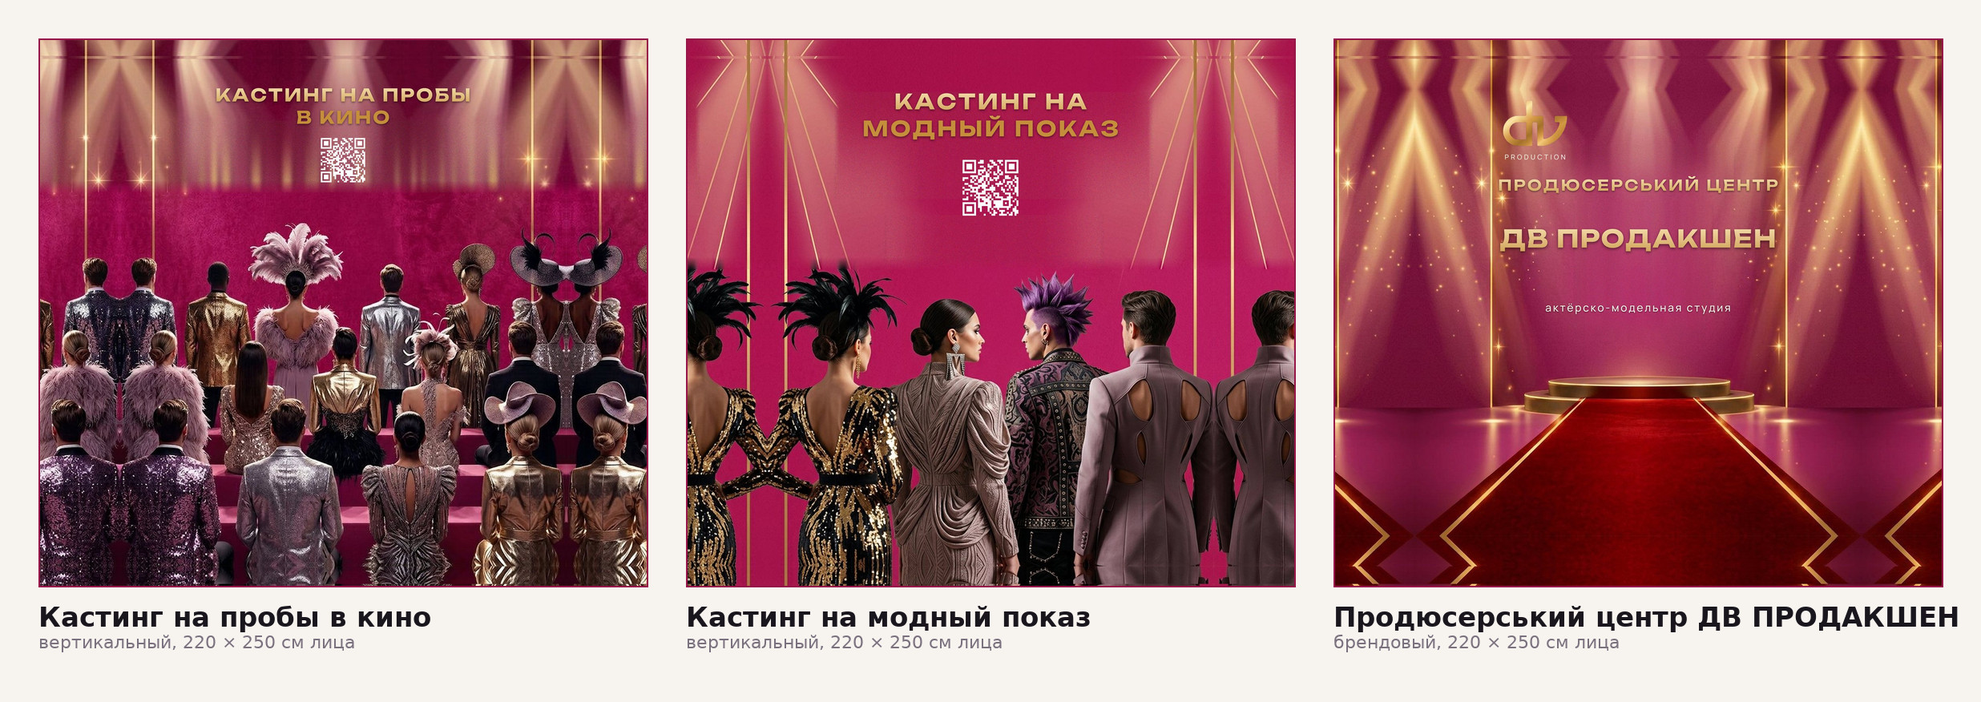
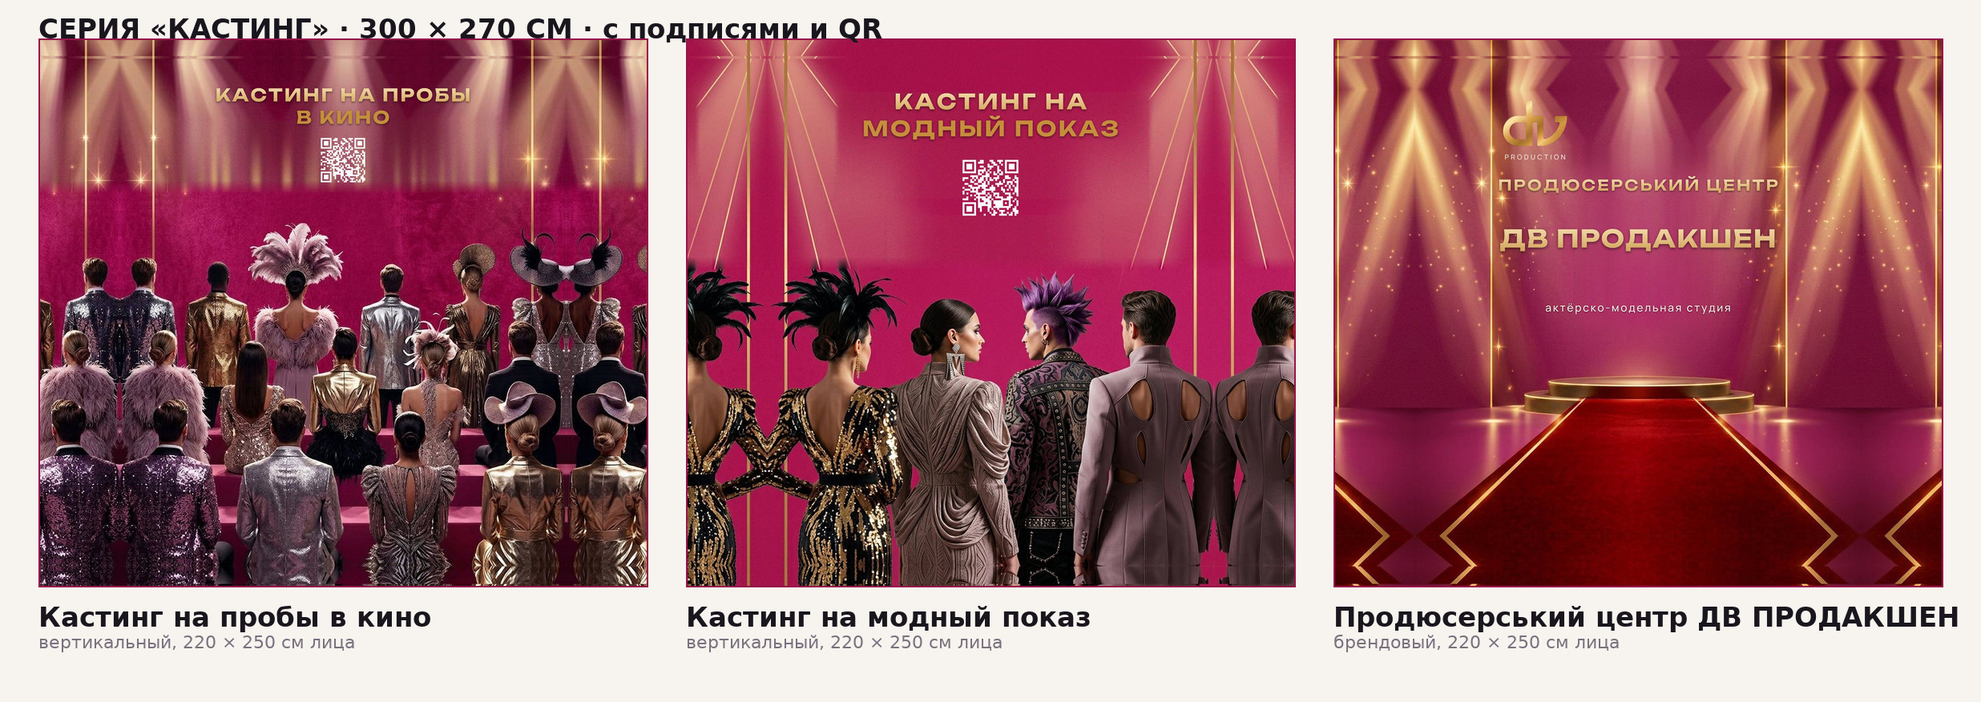
Серия «Кастинг»: чистые макеты 300 × 270 без подписей, логотипа и QR
Та же композиция и та же геометрия конструкции (файл 300 × 270 см, лицо
220 × 250 см, загибы 10 см, уши 40 см), но без единой надписи, без
монограммы и без QR-кода — чистые фоны под свой текст или под зашивку.

• build_300x270.py --bare — не накладываются слои заголовков, монограммы
  и QR; запечённые в исходниках надписи вычищаются как и раньше, поэтому
  следов старых букв не остаётся;
• три мастера banner-{kino,pokaz,dv-production}-300x270-bare.jpg —
  35 433 × 31 890 px, 300 dpi, sRGB, 4:4:4;
• qa_300x270.py проверяет и чистые мастера: QR в них не декодируется,
  это ожидаемое поведение;
• превью и контактный лист чистой серии, web-версии (1600 px + видимое
  лицо 1400 px) и четыре соцсети с суффиксом -bare;
• README и спецификация серии обновлены.

Мастера (включая чистые версии) в git не коммитим — они воспроизводимы
одной командой.

Changed region(s): [[0.0, 0.0308, 0.4672, 0.0616]]

diff --git a/scripts/banners/make_preview_300x270.py b/scripts/banners/make_preview_300x270.py
@@ -39,6 +39,13 @@ ITEMS = [
     ("dv-production", "Продюсерський центр ДВ ПРОДАКШЕН", "брендовый, 220 × 250 см лица"),
 ]
 
+# Варианты серии: суффикс файлов и подпись в контактном листе.
+# "" — с подписями, логотипом и QR; "-bare" — чистые фоны без текста.
+VARIANTS = [
+    ("", "с подписями и QR"),
+    ("-bare", "чистые, без подписей и QR"),
+]
+
 
 def face_crop(src: Path, dst: Path, dst_width: int, webp: bool = False) -> tuple[int, int]:
     """Вырезает видимое лицо из веб-версии печатного файла и масштабирует."""
@@ -58,56 +65,60 @@ def face_crop(src: Path, dst: Path, dst_width: int, webp: bool = False) -> tuple
 def main() -> int:
     PREVIEW.mkdir(parents=True, exist_ok=True)
     WEB.mkdir(parents=True, exist_ok=True)
-    thumbs = []
-    for key, title, note in ITEMS:
-        src = WEB / f"{key}-300x270.jpg"
-        if not src.exists():
-            print(f"Нет веб-версии: {src}")
+    for suffix, variant_note in VARIANTS:
+        thumbs = []
+        for key, title, note in ITEMS:
+            src = WEB / f"{key}-300x270{suffix}.jpg"
+            if not src.exists():
+                print(f"Нет веб-версии: {src}")
+                continue
+
+            # копия полного печатного файла в репозиторий (веб-версия остаётся на месте)
+            out = PREVIEW / f"casting-300x270{suffix}-{key}.jpg"
+            im = Image.open(src)
+            im.save(out, quality=90, subsampling=0)
+            print(f"Превью: {out.relative_to(ROOT)} ({im.size[0]}×{im.size[1]}, "
+                  f"{out.stat().st_size // 1024} КБ)")
+
+            # видимое лицо — для сайта и для согласования композиции
+            fw, fh = face_crop(src, WEB / f"{key}-300x270{suffix}-face", 1400, webp=True)
+            face_out = PREVIEW / f"casting-300x270{suffix}-{key}-face.jpg"
+            face_crop(src, face_out, 1200)
+            print(f"  лицо: {face_out.relative_to(ROOT)} ({fw}×{fh})")
+
+            t = im.copy()
+            t.thumbnail((760, 760), Image.LANCZOS)
+            thumbs.append((t, title, note))
+
+        if not thumbs:
             continue
 
-        # копия полного печатного файла в репозиторий (веб-версия остаётся на месте)
-        out = PREVIEW / f"casting-300x270-{key}.jpg"
-        im = Image.open(src)
-        im.save(out, quality=90, subsampling=0)
-        print(f"Превью: {out.relative_to(ROOT)} ({im.size[0]}×{im.size[1]}, "
+        # контактный лист
+        pad = 48
+        cap = 96
+        width = pad + sum(t.width + pad for t, _, _ in thumbs)
+        height = pad + max(t.height for t, _, _ in thumbs) + cap + pad
+        sheet = Image.new("RGB", (width, height), (247, 244, 240))
+        d = ImageDraw.Draw(sheet)
+        f_title = ImageFont.truetype(str(F_BOLD), 34)
+        f_note = ImageFont.truetype(str(F_REG), 22)
+
+        x = pad
+        top = pad
+        for t, title, note in thumbs:
+            sheet.paste(t, (x, top))
+            d.rectangle([x, top, x + t.width, top + t.height], outline=(150, 22, 74), width=2)
+            d.text((x, top + t.height + 18), title, font=f_title, fill=(26, 22, 30))
+            d.text((x, top + t.height + 56), note, font=f_note, fill=(122, 112, 126))
+            x += t.width + pad
+
+        d.text((pad, 16), f"СЕРИЯ «КАСТИНГ» · 300 × 270 СМ · {variant_note}",
+               font=f_title, fill=(26, 22, 30))
+
+        out = PREVIEW / f"casting-300x270{suffix}-contact-sheet.jpg"
+        sheet.save(out, quality=90, subsampling=0)
+        print(f"Контактный лист: {out.relative_to(ROOT)} ({sheet.size[0]}×{sheet.size[1]}, "
               f"{out.stat().st_size // 1024} КБ)")
-
-        # видимое лицо — для сайта и для согласования композиции
-        fw, fh = face_crop(src, WEB / f"{key}-300x270-face", 1400, webp=True)
-        face_out = PREVIEW / f"casting-300x270-{key}-face.jpg"
-        face_crop(src, face_out, 1200)
-        print(f"  лицо: {face_out.relative_to(ROOT)} ({fw}×{fh})")
-
-        t = im.copy()
-        t.thumbnail((760, 760), Image.LANCZOS)
-        thumbs.append((t, title, note))
-
-    if not thumbs:
-        return 1
-
-    # контактный лист
-    pad = 48
-    cap = 96
-    width = pad + sum(t.width + pad for t, _, _ in thumbs)
-    height = pad + max(t.height for t, _, _ in thumbs) + cap + pad
-    sheet = Image.new("RGB", (width, height), (247, 244, 240))
-    d = ImageDraw.Draw(sheet)
-    f_title = ImageFont.truetype(str(F_BOLD), 34)
-    f_note = ImageFont.truetype(str(F_REG), 22)
-
-    x = pad
-    top = pad
-    for t, title, note in thumbs:
-        sheet.paste(t, (x, top))
-        d.rectangle([x, top, x + t.width, top + t.height], outline=(150, 22, 74), width=2)
-        d.text((x, top + t.height + 18), title, font=f_title, fill=(26, 22, 30))
-        d.text((x, top + t.height + 56), note, font=f_note, fill=(122, 112, 126))
-        x += t.width + pad
-
-    out = PREVIEW / "casting-300x270-contact-sheet.jpg"
-    sheet.save(out, quality=90, subsampling=0)
-    print(f"Контактный лист: {out.relative_to(ROOT)} ({sheet.size[0]}×{sheet.size[1]}, "
-          f"{out.stat().st_size // 1024} КБ)")
     return 0
 
 

diff --git a/scripts/banners/build_300x270.py b/scripts/banners/build_300x270.py
@@ -31,6 +31,7 @@
 Запуск:
   python3 scripts/banners/build_300x270.py
   python3 scripts/banners/build_300x270.py --only kino
+  python3 scripts/banners/build_300x270.py --bare      # без подписей, логотипа и QR
 """
 from __future__ import annotations
 
@@ -411,15 +412,15 @@ def write_master(raw: Path, out: Path) -> None:
           f"{out.stat().st_size // 1024 // 1024} МБ, {dpi})")
 
 
-def build_derivatives(raw: Path, key: str) -> None:
+def build_derivatives(raw: Path, key: str, suffix: str = "") -> None:
     """Web- и social-версии — те же параметры, что у всей серии."""
     img = pyvips.Image.rawload(str(raw), W, H, 3, access="sequential")
     WEB_DIR.mkdir(parents=True, exist_ok=True)
     SOCIAL_DIR.mkdir(parents=True, exist_ok=True)
 
     web = img.resize(1600 / W, kernel="lanczos3")
-    web.write_to_file(str(WEB_DIR / f"{key}-300x270.jpg"), Q=84, strip=True)
-    web.write_to_file(str(WEB_DIR / f"{key}-300x270.webp"), Q=80, strip=True)
+    web.write_to_file(str(WEB_DIR / f"{key}-300x270{suffix}.jpg"), Q=84, strip=True)
+    web.write_to_file(str(WEB_DIR / f"{key}-300x270{suffix}.webp"), Q=80, strip=True)
 
     bg = [float(c.avg()) for c in img.crop(0, 0, 1, 1).bandsplit()]
     for name, tw, th in (("1080x1920", 1080, 1920), ("1080x1350", 1080, 1350),
@@ -429,31 +430,37 @@ def build_derivatives(raw: Path, key: str) -> None:
         small = img.resize(scale, kernel="lanczos3")
         small = small.embed((tw - nw) // 2, (th - nh) // 2, tw, th,
                             extend="background", background=bg)
-        small.write_to_file(str(SOCIAL_DIR / f"{key}-300x270-{name}.jpg"), Q=86, strip=True)
-    print(f"  производные: {key}-300x270 (web 1600 px + 4 social)")
+        small.write_to_file(str(SOCIAL_DIR / f"{key}-300x270{suffix}-{name}.jpg"),
+                            Q=86, strip=True)
+    print(f"  производные: {key}-300x270{suffix} (web 1600 px + 4 social)")
 
 
 def main() -> int:
     ap = argparse.ArgumentParser()
     ap.add_argument("--only", choices=list(SOURCES), help="собрать только один макет")
+    ap.add_argument("--bare", action="store_true",
+                    help="чистые макеты: без подписей, логотипа и QR-кодов")
     ap.add_argument("--keep-work", action="store_true")
     args = ap.parse_args()
 
     pyvips.cache_set_max_mem(256 * 1024 * 1024)
     pyvips.cache_set_max(80)
 
+    suffix = "-bare" if args.bare else ""
     keys = [args.only] if args.only else list(SOURCES)
     work = Path(tempfile.mkdtemp(prefix="banners300-"))
     try:
         for key in keys:
-            print(f"→ {key}")
+            print(f"→ {key}{' (без подписей)' if args.bare else ''}")
             plate = clean_plate(key)
             logo = None
-            if key == "dv-production":
-                arr = np.array(Image.open(SOURCES[key]).convert("RGB"))
-                mono, _ = edp.extract_logo(arr)
-                logo = logo_block(mono, cm(32))
-            layers = overlays_for(key, logo)
+            layers = []
+            if not args.bare:
+                if key == "dv-production":
+                    arr = np.array(Image.open(SOURCES[key]).convert("RGB"))
+                    mono, _ = edp.extract_logo(arr)
+                    logo = logo_block(mono, cm(32))
+                layers = overlays_for(key, logo)
 
             raw = work / f"{key}_canvas.raw"
             canvas = np.memmap(raw, dtype=np.uint8, mode="w+", shape=(H, W, 3))
@@ -461,9 +468,9 @@ def main() -> int:
             del plate, layers
             gc.collect()
             finish_canvas(canvas)
-            out = PRINT_DIR / f"banner-{key}-300x270.jpg"
+            out = PRINT_DIR / f"banner-{key}-300x270{suffix}.jpg"
             write_master(raw, out)
-            build_derivatives(raw, key)
+            build_derivatives(raw, key, suffix)
             del canvas
             raw.unlink(missing_ok=True)
     finally:

diff --git a/scripts/banners/qa_300x270.py b/scripts/banners/qa_300x270.py
@@ -35,6 +35,13 @@ MASTERS = {
     "dv-production": PRINT_DIR / "banner-dv-production-300x270.jpg",
 }
 
+# Чистые макеты: без подписей, логотипа и QR-кодов.
+BARE_MASTERS = {
+    "kino (чистый)": PRINT_DIR / "banner-kino-300x270-bare.jpg",
+    "pokaz (чистый)": PRINT_DIR / "banner-pokaz-300x270-bare.jpg",
+    "dv-production (чистый)": PRINT_DIR / "banner-dv-production-300x270-bare.jpg",
+}
+
 EXPECT_URL = "https://model.dvkino.ru"
 
 
@@ -84,6 +91,31 @@ def qr_from_master(path: Path) -> str | None:
     return None
 
 
+def check_master(key: str, path: Path, expect_qr: bool | None) -> bool:
+    """Проверки одного мастера: геометрия, dpi, 4:4:4 и QR."""
+    units, density, sampling, width, height = jfif_info(path)
+    size_mb = path.stat().st_size / 1024 / 1024
+
+    checks = [
+        ("размер", (width, height) == (W, H), f"{width}×{height} px"),
+        ("dpi", units == 1 and density == DPI, f"{density} dpi"),
+        ("4:4:4", sampling == "4:4:4", sampling),
+    ]
+    url = qr_from_master(path)
+    if expect_qr is None:
+        checks.append(("QR", url is None, url or "QR не найден — как и задумано"))
+    elif expect_qr:
+        checks.append(("QR", url == EXPECT_URL, url or "не найден"))
+    else:
+        checks.append(("QR", url is None, "в макете нет QR"))
+
+    bad = [c for c in checks if not c[1]]
+    print(f"{'✓' if not bad else '✗'} {key}: {path.name} ({size_mb:.0f} МБ)")
+    for name, good, value in checks:
+        print(f"    {'✓' if good else '✗'} {name}: {value}")
+    return not bad
+
+
 def main() -> int:
     ok = True
     for key, path in MASTERS.items():
@@ -91,25 +123,15 @@ def main() -> int:
             print(f"✗ {key}: нет файла {path.name}")
             ok = False
             continue
-        units, density, sampling, width, height = jfif_info(path)
-        size_mb = path.stat().st_size / 1024 / 1024
+        expect_qr = None if key == "dv-production" else True
+        ok = check_master(key, path, expect_qr) and ok
 
-        checks = [
-            ("размер", (width, height) == (W, H), f"{width}×{height} px"),
-            ("dpi", units == 1 and density == DPI, f"{density} dpi"),
-            ("4:4:4", sampling == "4:4:4", sampling),
-        ]
-        if key == "dv-production":
-            checks.append(("QR", True, "в макете нет QR"))
-        else:
-            url = qr_from_master(path)
-            checks.append(("QR", url == EXPECT_URL, url or "не найден"))
-
-        bad = [c for c in checks if not c[1]]
-        ok = ok and not bad
-        print(f"{'✓' if not bad else '✗'} {key}: {path.name} ({size_mb:.0f} МБ)")
-        for name, good, value in checks:
-            print(f"    {'✓' if good else '✗'} {name}: {value}")
+    for key, path in BARE_MASTERS.items():
+        if not path.exists():
+            print(f"✗ {key}: нет файла {path.name}")
+            ok = False
+            continue
+        ok = check_master(key, path, None) and ok
     return 0 if ok else 1
 
 

diff --git a/docs/konstruktsii/banners/01_seriya-kasting-prepress.md b/docs/konstruktsii/banners/01_seriya-kasting-prepress.md
@@ -150,6 +150,29 @@
 | Хрома | 4:4:4, без субсэмплинга ✓ |
 | QR в мастере | `https://model.dvkino.ru` читается прямо из печатного файла ✓ (в брендовом макете QR нет) |
 
+### Чистые макеты (без подписей, логотипа и QR)
+
+Отдельно собраны три версии той же композиции, но **без единой надписи,
+без монограммы и без QR-кода** — чистые фоны под свой текст или под зашивку
+экраном/светом:
+
+| Файл | Что это |
+|------|---------|
+| `banner-kino-300x270-bare.jpg` | стена с лучами и зрительный зал, без заголовка и QR |
+| `banner-pokaz-300x270-bare.jpg` | стена с лучами и модели на подиуме, без заголовка и QR |
+| `banner-dv-production-300x270-bare.jpg` | только сцена: подиум, ковёр, софиты — без логотипа и подписей |
+
+Собирается тем же скриптом с флагом `--bare` (`build_300x270.py --bare`):
+геометрия, раскладка, загибы, уши, стык стены и фото — ровно как в основной
+серии, просто не накладываются слои текста, монограммы и QR. Запечённые в
+исходниках надписи вычищаются в обоих случаях, поэтому в чистом макете
+не остаётся ни «призраков», ни следов старых букв. QA проверяет и чистые
+мастера: QR в них не декодируется — так и задумано.
+
+Производные версии чистых макетов — с суффиксом `-bare`:
+`public/media/banners/{key}-300x270-bare.*` и
+`public/media/banners/social/{key}-300x270-bare-*.jpg`.
+
 ### Ограничения, о которых честно предупреждаем
 
 - **Фотография исходников растягивается в 4–5,6 раза.** Клиентские файлы
@@ -225,6 +248,7 @@ JPEG q86. Пропорции сохраняются, поля добираютс
 | `casting-300x270-{kino,pokaz,dv-production}.jpg` | полные печатные файлы 300 × 270 см (1600 px по ширине) |
 | `casting-300x270-{kino,pokaz,dv-production}-face.jpg` | видимое лицо 220 × 250 см — то, что видит зритель |
 | `casting-300x270-contact-sheet.jpg` | три макета 300 × 270 см рядом с подписями |
+| `casting-300x270-bare-*.jpg` | те же макеты, но чистые — без подписей, логотипа и QR |
 
 Оба листа пересобираются одной командой (`scripts/banners/make_preview.py`)
 и берутся прямо из печатных мастеров, поэтому расхождение с ними невозможно.
@@ -299,6 +323,7 @@ python3 scripts/banners/make_preview.py
 
 # версия под конструкцию 300 × 270 см
 python3 scripts/banners/build_300x270.py
+python3 scripts/banners/build_300x270.py --bare      # чистые, без подписей и QR
 python3 scripts/banners/make_layout_map.py
 python3 scripts/banners/make_preview_300x270.py
 python3 scripts/banners/qa_300x270.py

diff --git a/banners/casting-series/README.md b/banners/casting-series/README.md
@@ -15,13 +15,17 @@ banners/casting-series/
 │   ├── banner-dv-production-original-6144x6144.jpg ← исходник клиента для правки
 │   ├── banner-kino-300x270.jpg                     ← версия под конструкцию 300 × 270
 │   ├── banner-pokaz-300x270.jpg
-│   └── banner-dv-production-300x270.jpg
+│   ├── banner-dv-production-300x270.jpg
+│   ├── banner-kino-300x270-bare.jpg                ← чистые, без подписей и QR
+│   ├── banner-pokaz-300x270-bare.jpg
+│   └── banner-dv-production-300x270-bare.jpg
 ├── preview/                   итоговый вид серии (для согласования и клиента)
 │   ├── casting-series-contact-sheet.jpg
 │   ├── casting-qr-proof.jpg
 │   ├── casting-300x270-layout.jpg         ← схема раскладки 300 × 270
 │   ├── casting-300x270-contact-sheet.jpg  ← три макета 300 × 270 рядом
-│   └── casting-300x270-{kino,pokaz,dv-production}.jpg
+│   ├── casting-300x270-bare-contact-sheet.jpg
+│   └── casting-300x270-{kino,pokaz,dv-production}[-bare].jpg
 └── README.md
 ```
 
@@ -71,6 +75,28 @@ public/media/banners/social/    1080×1920, 1080×1350, 1080×1080, 1920×1080
 изображение идёт непрерывно через всю конструкцию.
 
 Печатные мастеры: **35 433 × 31 890 px, 300 dpi, sRGB, 4:4:4**, без вылетов.
+
+### Чистые макеты (без подписей, логотипа и QR)
+
+Та же композиция, но без единой надписи, без монограммы и без QR-кода —
+чистые фоны, куда можно ставить свой текст или зашивать экран/свет:
+
+| Файл | Что это |
+|------|---------|
+| `banner-kino-300x270-bare.jpg` | «Кастинг на пробы в кино» без текста и QR |
+| `banner-pokaz-300x270-bare.jpg` | «Кастинг на модный показ» без текста и QR |
+| `banner-dv-production-300x270-bare.jpg` | «ДВ ПРОДАКШЕН» — только сцена, без логотипа и подписей |
+
+Собирается тем же скриптом с флагом `--bare`:
+
+```bash
+python3 scripts/banners/build_300x270.py --bare
+```
+
+Геометрия, раскладка, загибы, уши и стыки — ровно как у основной серии,
+разница только в наборе слоёв: слои текста, монограммы и QR не накладываются.
+Производные версии получают суффикс `-bare`
+(`public/media/banners/{key}-300x270-bare.*` и `-300x270-bare-1080x1920.jpg` и т. д.).
 
 
 ## Ключевое
